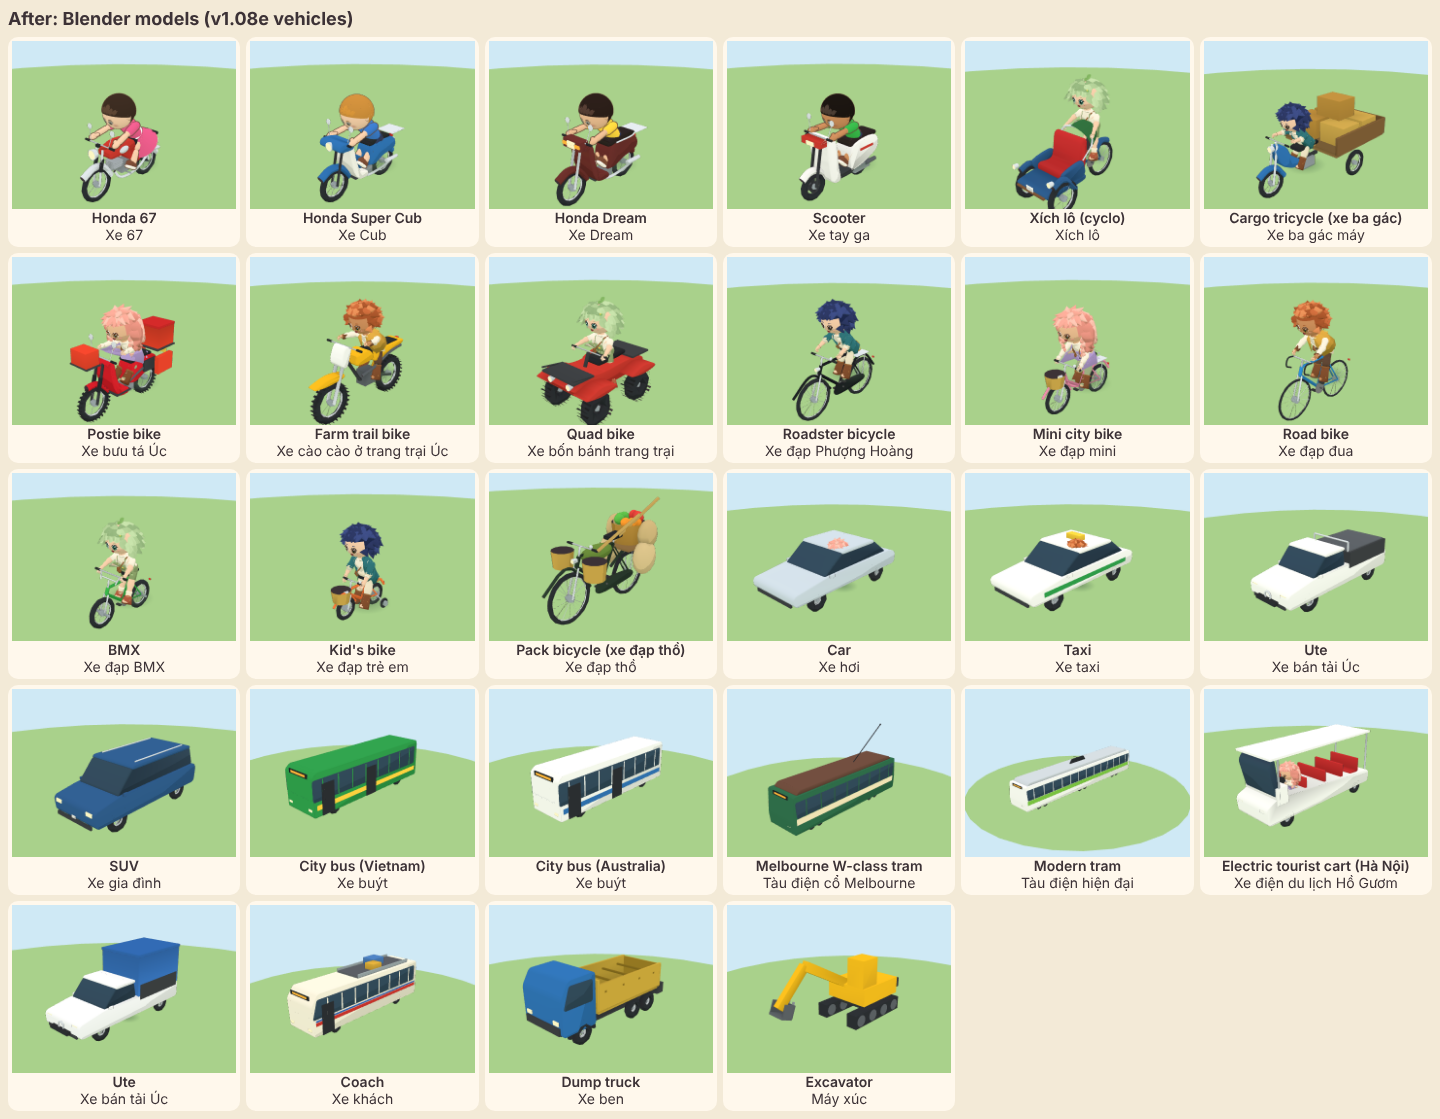
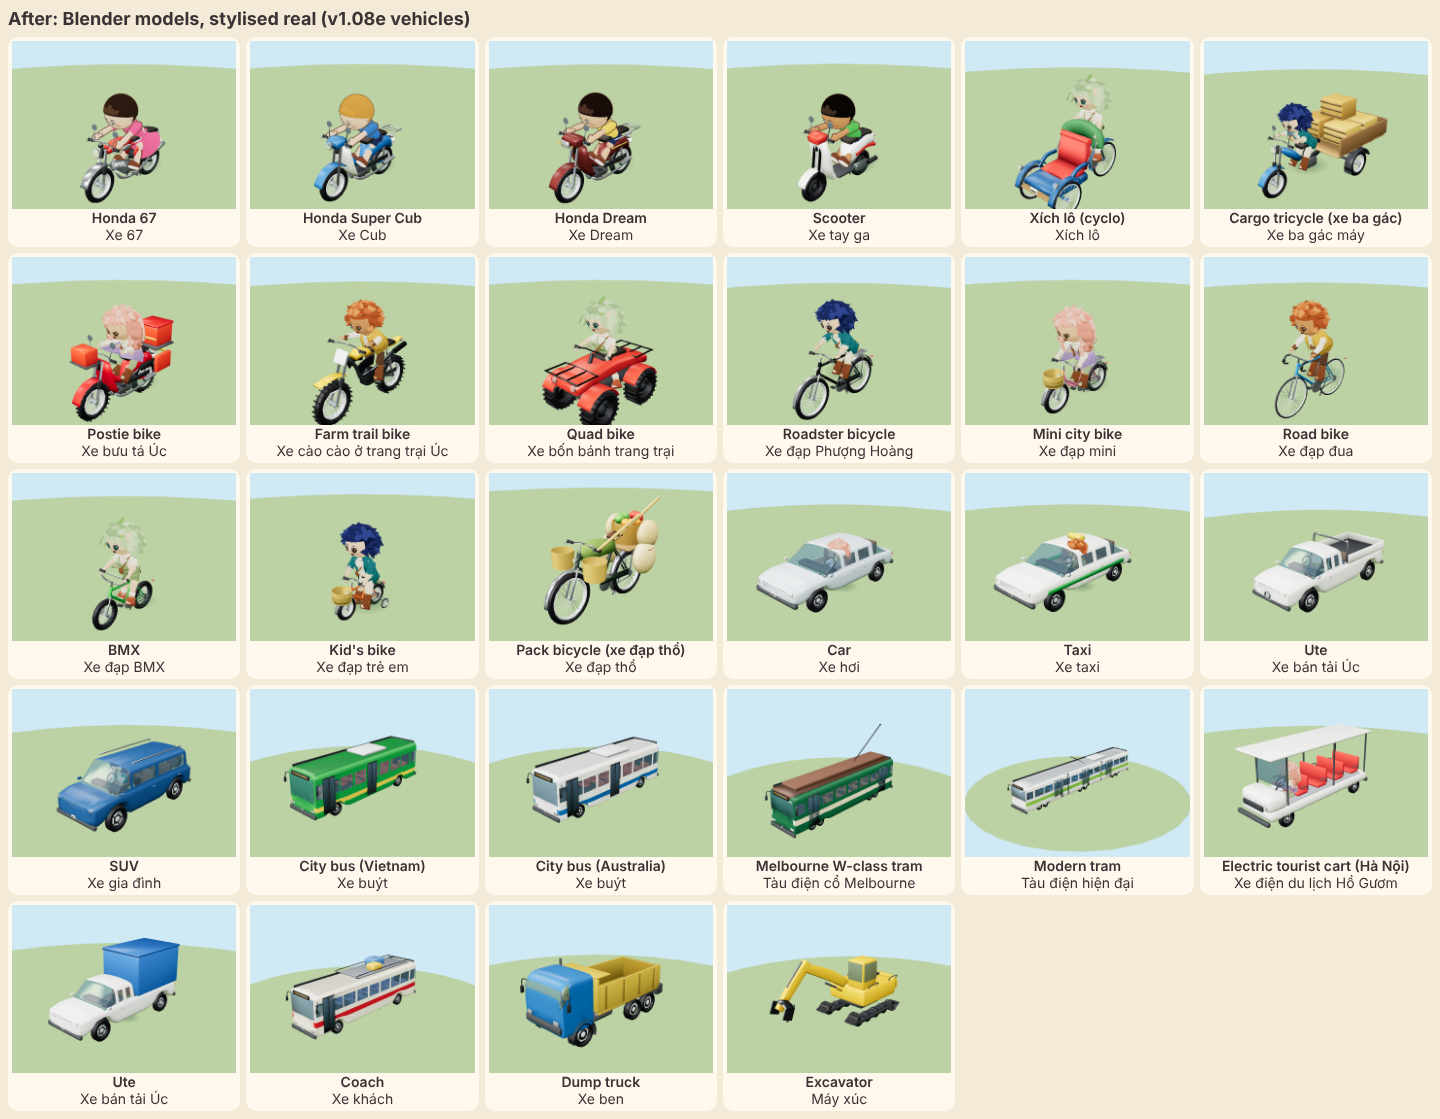
v1.08e vehicles: remake screenshots and status (ready for Release)
Claude-Session: https://claude.ai/code/session_01ARvCQBLmJikGwpmPrfmqia

diff --git a/docs/cores/tasks/v108e/vehicles.md b/docs/cores/tasks/v108e/vehicles.md
@@ -1,6 +1,6 @@
 # v1.08e vehicles: status
 
-**In progress: remake** (6 Nov 2026 AEDT). The owner saw the first models: "They need to have better refinement, need to have souls and more real, atm looks like ugly toys". Not ready for Release until the remake is pushed. Branch `work/v108e-vehicles` (from `origin/integrate/v108`). Brief: `vehicles-brief.md`.
+**ready for Release** (6 Nov 2026, 04:40 AEDT): the remake. The owner saw the first models ("They need to have better refinement, need to have souls and more real, atm looks like ugly toys") and chose "stylised real". Every vehicle and boat is now modelled anew in Blender. Branch `work/v108e-vehicles` (from `origin/integrate/v108`). Brief: `vehicles-brief.md`.
 
 ## Every vehicle (ridden or seen)
 
@@ -25,25 +25,38 @@ All 28 code vehicles of `js/vehicles.ts` (`VEHICLES`) and the two boats of `js/f
 Not remade: the lotus pond's teal bicycle (`js/lotus.ts`, its own colour) and any vehicle in the older children's
 real look keep their code shapes (see "Assumed").
 
-## How they are made
+## How they are made (the remake)
 
-1. `tools/vehicle-blueprints.mts`: the game's own code shapes, read in a browser and written as parts (triangles,
-   corner colours, each moving part's pivot). So every model has exactly the size, place and facing of its code shape.
-2. `tools/blender/world-vehicles.py` (Blender 4.2.3): welds and smooths each part, thins it to its budget (body about
-   2,600, a bus or tram 3,200, each wheel 130-380), bakes soft shading into the corner colours (Cycles ambient
-   occlusion), adds the named points (`seat`, `seat2`, `handleL`, `handleR`, `pedalL`, `pedalR`, `handle2L/R`,
-   `pedal2L/R`, `wheelAt`) and writes the parts that move as their own nodes (`wheel0..n`, `bed`, `turn`, `boom`, `arm`,
-   `bucket`).
+1. `tools/vehicle-blueprints.mts`: the frame from the game's code shapes: each wheel's hub and size, the seat, handle
+   and pedal points, the moving parts' pivots and the overall box. Nothing of the code shapes' look is reused.
+2. `tools/blender/world-vehicles.py` (Blender 4.2.3) models each vehicle anew inside that frame:
+   - cars, buses, trams, the coach and the truck cab: bodies lofted from cross-sections and smoothed, with wheel arches,
+     tinted glass in the window openings (crisp edges), lamps with chrome bowls and lenses, grilles, bumpers, mirrors,
+     door handles, wipers, plates, seats, dashboards and steering wheels inside, a dark lining behind bus windows;
+   - motorbikes: teardrop tanks, leg shields, finned engines, upswept exhausts, forks with gaiters, rear shocks with
+     springs, chrome mudguards, mirrors, levers and grips, spoked wheels with drums;
+   - bicycles: thin tubes, forks, saddles with springs, chainrings, chains, cranks and pedals, mudguards, racks,
+     wicker baskets, lamps and bells, training wheels;
+   - tyres with rounded shoulders, alloy rims with arms and caps, knobbly tyres on the farm machines;
+   - the ferry's curved hull, cabin with windows, funnel, rails, benches and life ring; the raft's jointed bamboo.
+   Wheels and moving parts are their own nodes; the named points stay. Soft shadows (Cycles ambient occlusion) are
+   baked into the corner colours. Thinning keeps every edge between two colours or kinds in place.
 3. gltfpack 0.20 (meshopt). `tools/make-world-vehicles.mts` runs all three.
 
-Sizes: 7-48 KB each, 3,200-4,800 triangles (the boats and the excavator less).
+Sizes: 33-93 KB each (2.0 MB for all 30). Triangles: bicycles and motorbikes 4,100-6,900, cars 7,700, buses and
+trams 10,200-13,000, boats 4,200-5,500.
+
+Fit to the game's box (Blender prints it): bikes and cars within 5 cm (the ute, SUV and Tâm's truck within 13 cm);
+buses, trams, coach and truck stand out 25-27 cm only by their mirrors on arms and roof units; on the ground within
+2 cm everywhere.
 
 ## In the game
 
 - `js/vehicles.ts`: `build()` gathers everything that does not move into one group, `codeBody`. `wear(v)` asks the kit
   (`modelFor`) to swap the model in when a child first comes within 70 m; `fitModel` hides the code body, puts each
   model wheel (and moving part) inside its code wheel, so it turns as the code turns it, and reads the named points
-  into the vehicle's seat, grips and feet.
+  into the vehicle's seat, grips and feet. Each surface kind gets its look: glossy paint, matte rubber and seats,
+  shiny chrome (the scene's reflections), see-through tinted glass; no ink outline (stylised real).
 - `js/traffic.ts` (every traffic, parked and rideable vehicle), `js/yard.ts` (coach, dump truck, excavator),
   `js/ferry.ts` (each boat's hull; the signs, flag, lantern and the raft's fading roof stay the code's).
 - The code shape stays until the model has arrived and for good when it cannot load.
@@ -64,25 +77,24 @@ Sizes: 7-48 KB each, 3,200-4,800 triangles (the boats and the excavator less).
   chrome, owner round R) keeps its code shapes, and so does a vehicle built in its own colours (the lotus pond's bike).
 - The pedals are not turned (the riders' feet rest on them); `pedalL/R` are named points.
 
-## Checks (6 Nov 2026 AEDT, one at a time, `CHROMIUM=/opt/pw-browsers/chromium node run.mts <name>`)
+## Checks (remake, 6 Nov 2026 AEDT, one at a time)
 
 | Check | Result |
 |---|---|
-| `worldvehicles` (new, `tests/world-vehicles.mts`) | pass: 28 vehicle models in place (size, ground, facing within 4 cm), 96/96 wheels on their hubs and turning, riders on the model's seat with hands on its handles (roadster, honda67, scooter, xichlo, postie), 85 traffic vehicles and 5 boats swapped, blocked models keep the code shape |
+| `worldvehicles` | pass: 28 models in place (size within 30 cm, ground within 2 cm), 96/96 wheels on their hubs and turning, riders seated on the model's points, 85 traffic vehicles and 5 boats swapped, blocked models keep the code shape |
 | `vehicles` | pass |
-| `flyaudit` | pass (666 landings) |
 | `types` | pass |
+| `perf` | pass: village 335 draws (was 291; limit 420), home 175; 684k triangles (was 605k; noted, not a gate) |
+| `battery` | pass |
 | `boot` | pass |
-| `perf` | pass: village 291 draws, home 175 |
-| `battery` | pass: 164/164 far people still |
-| `startup` | pass: first start 1036 KB (inside the check's 3 % margin; it was 1035 KB before the fitting moved out of `js/vehicles.ts`, so not from this work) |
-| `offline`, `swupdate` (after the merge, with the 30 models and `js/vehicle-models.js` in the `sw.ts` FILES list) | pass |
-| `boats` | **fail, same on `origin/integrate/v108` without this work**: the Season 2 harbour ferry (13 m too shallow at -115,152; the Melbourne, Great Barrier Reef, Tasmania, Perth and Rottnest piers join no road). For the Season 2 Australia helper |
+| before the remake: `flyaudit`, `startup`, `offline`, `swupdate` | pass (the remake changed no code they run except the look) |
+| `boats` | fails the same on `origin/integrate/v108` (Season 2 harbour ferry), not from this work |
 
 ## Screenshots
 
-`docs/world-models-v108e/vehicles/`: `phone-`, `tablet-`, `computer-` `before.png` (code shapes) and `after.png` (Blender
-models), every vehicle with a friend riding.
+`docs/world-models-v108e/vehicles/`: `phone-`, `tablet-`, `computer-` `before.png` (code shapes) and `after.png` (the
+remake), every vehicle with a friend riding; close-ups: `closeup-motorbikes.png`, `closeup-bicycles.png`,
+`closeup-cars.png`, `closeup-big.png`, `closeup-boats.png`.
 
 Seen in both before and after (not from this work): in the car, taxi and tourist cart the friend's hair comes through
 the roof (`seatRider` sinks the code avatar under the roof, but not all of a friend's model).
@@ -92,3 +104,4 @@ the roof (`seatRider` sinks the code avatar under the roof, but not all of a fri
 - 6 Nov 2026 02:10 AEDT: part 1 pushed: blueprints, Blender script, 30 models, swap-in in traffic, yard and ferries.
 - 6 Nov 2026 02:50 AEDT: check `worldvehicles`, fitting moved to `js/vehicle-models.ts`, screenshots, ready for Release.
 - 6 Nov 2026 03:20 AEDT: merged `origin/integrate/v108`; the 30 models added to the `sw.ts` FILES list; `offline`, `swupdate`, `worldvehicles` pass.
+- 6 Nov 2026 04:40 AEDT: the remake (stylised real) pushed, checks pass, ready for Release.
